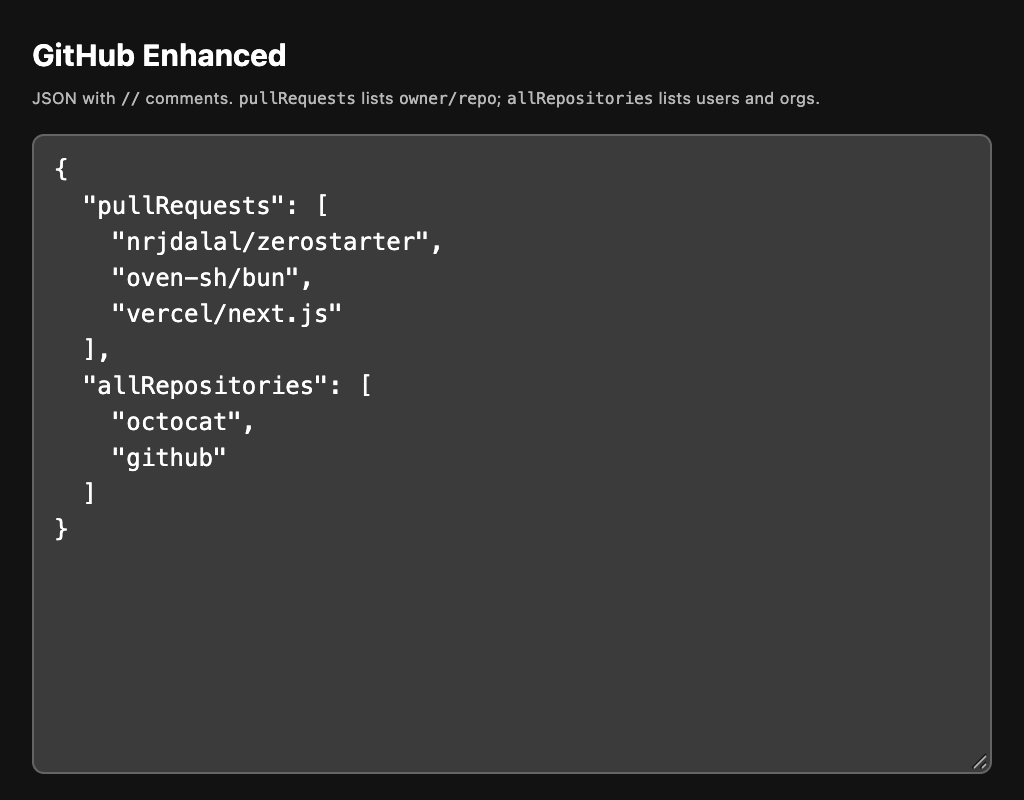
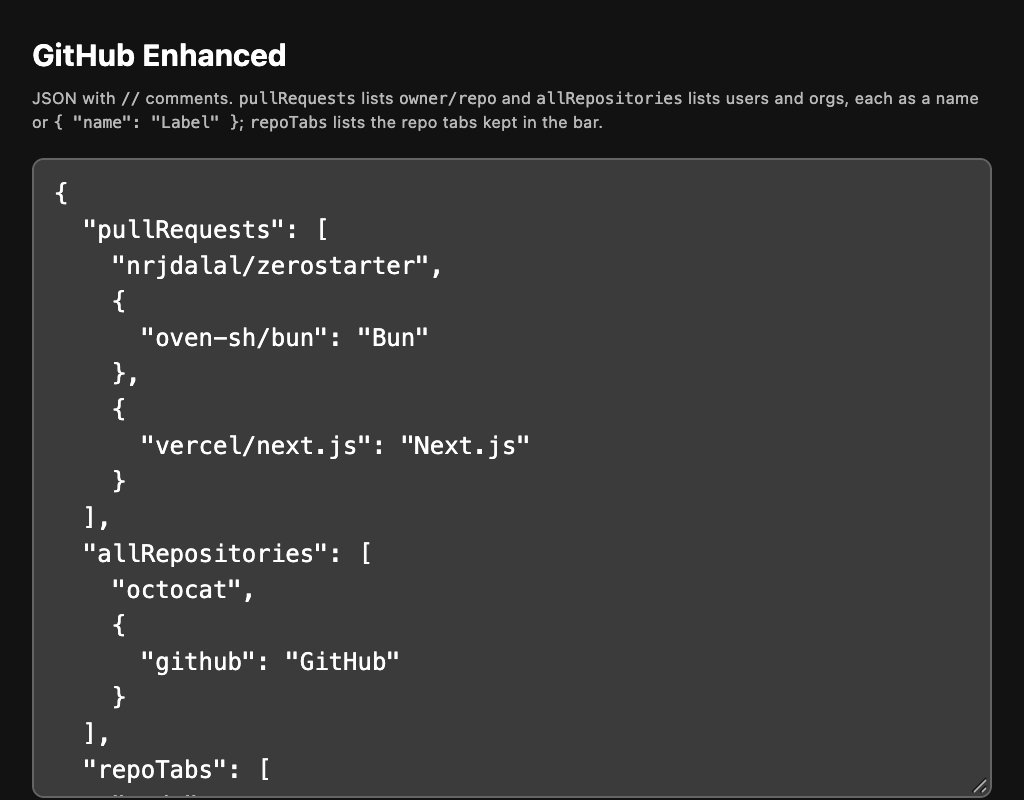
feat: fold a changed file by clicking its header bar; repo tabs come only from repoTabs; entries may carry a label; the tab tooltip takes the pointer

diff --git a/github.js b/github.js
@@ -1,4 +1,4 @@
-// Puts Home and Feed side by side, links the account avatar to its profile and adds Pull Requests (each repo set in the extension popup, linking to its pull requests) and All Repositories (each user or org set there, linking to its repositories, an org found by whether its /orgs page exists) above the dashboard's "Top repositories", in static markup with avatars kept in localStorage, so they render at first paint, swaps a repo's "All pull requests" heading for Pull requests, Authored by me and Merged by me icon tabs, adding Merged by me to its sidebar too, opens a repo's pull request lists sorted by last update unless the search names a sort, and on a pull request hides each sidebar box's "None yet" style line, keeping its title, and fills Squash and merge's commit title with the pull request's title and number.
+// Keeps a repo's tabs listed in repoTabs in the bar, in that order, moving the rest under More; puts Home and Feed side by side, links the account avatar to its profile and adds Pull Requests (each repo set in the extension popup, linking to its pull requests) and All Repositories (each user or org set there, linking to its repositories, an org found by whether its /orgs page exists) above the dashboard's "Top repositories", in static markup with avatars kept in localStorage, so they render at first paint, swaps a repo's "All pull requests" heading for Pull requests, Authored by me and Merged by me icon tabs, adding Merged by me to its sidebar too, opens a repo's pull request lists sorted by last update unless the search names a sort, and on a pull request hides each sidebar box's "None yet" style line, keeping its title, fills Squash and merge's commit title with the pull request's title and number, and folds or opens a changed file when its header bar is clicked anywhere but a button or link.
 ;(() => {
   const sortedUrl = (href) => {
     const url = new URL(href, location.href)
@@ -24,6 +24,13 @@
     },
     true,
   )
+  document.addEventListener("click", (event) => {
+    const path = event.composedPath().filter((node) => node instanceof Element)
+    const header = path.find((node) => node.matches("[class*='diff-file-header']"))
+    if (!header || event.button !== 0 || path.some((node) => node.matches("a, button, input, label, select, summary, textarea, [role='button'], [role='checkbox']")) || getSelection().toString()) return
+    const label = (button) => (button.getAttribute("aria-label") ?? document.getElementById(button.getAttribute("aria-labelledby"))?.textContent ?? "").trim()
+    ;[...header.querySelectorAll("button")].find((button) => /^(Collapse|Expand) file$/.test(label(button)))?.click()
+  })
   const ICONS = {
     "git-merge": '<path d="M5.45 5.154A4.25 4.25 0 0 0 9.25 7.5h1.378a2.251 2.251 0 1 1 0 1.5H9.25A5.734 5.734 0 0 1 5 7.123v3.505a2.25 2.25 0 1 1-1.5 0V5.372a2.25 2.25 0 1 1 1.95-.218ZM4.25 13.5a.75.75 0 1 0 0-1.5.75.75 0 0 0 0 1.5Zm8.5-4.5a.75.75 0 1 0 0-1.5.75.75 0 0 0 0 1.5ZM5 3.25a.75.75 0 1 0 0 .005V3.25Z"/>',
     inbox: '<path d="M2.8 2.06A1.75 1.75 0 0 1 4.41 1h7.18c.7 0 1.333.417 1.61 1.06l2.74 6.395c.04.093.06.194.06.295v4.5A1.75 1.75 0 0 1 14.25 15H1.75A1.75 1.75 0 0 1 0 13.25v-4.5c0-.101.02-.202.06-.295Zm1.61.44a.25.25 0 0 0-.23.152L1.887 8H4.75a.75.75 0 0 1 .6.3L6.625 10h2.75l1.275-1.7a.75.75 0 0 1 .6-.3h2.863L11.82 2.652a.25.25 0 0 0-.23-.152Zm10.09 7h-2.875l-1.275 1.7a.75.75 0 0 1-.6.3h-3.5a.75.75 0 0 1-.6-.3L4.375 9.5H1.5v3.75c0 .138.112.25.25.25h12.5a.25.25 0 0 0 .25-.25Z"/>',
@@ -32,6 +39,7 @@
   const AVATARS = "ujc-avatars"
   const avatarUrl = (owner) => `https://github.com/${owner}.png?size=32`
   const avatars = JSON.parse(localStorage.getItem(AVATARS) ?? "{}")
+  const entries = (list) => (list ?? []).flatMap((item) => (typeof item === "string" ? [[item]] : Object.entries(item ?? {})))
   const ORGS = "ujc-orgs"
   const orgs = JSON.parse(localStorage.getItem(ORGS) ?? "{}")
   const avatar = (owner) => {
@@ -42,13 +50,29 @@
   }
   const CONFIG = "github-enhanced-config"
   let config = JSON.parse(localStorage.getItem(CONFIG) ?? "{}")
+  const repoTabs = () => {
+    document.getElementById("ujc-repo-tabs")?.remove()
+    const tabs = config.repoTabs ?? []
+    if (!tabs.length) return
+    const nav = 'nav[aria-label="Repository"]'
+    const style = document.createElement("style")
+    style.id = "ujc-repo-tabs"
+    style.textContent = [
+      `${nav}[data-overflow-mode="wrap"] { --UnderlineNav_moreButton-display: flex; }`,
+      `${nav} > ul > li:has(> a[data-tab-item]) { order: ${tabs.length + 2}; }`,
+      ...tabs.map((tab, i) => `${nav} > ul > li:has(> a[data-tab-item="${CSS.escape(tab)}"]) { order: ${i + 1}; }`),
+      `${nav} > ul::after { content: ""; order: ${tabs.length + 1}; flex-basis: 100%; }`,
+    ].join("\n")
+    document.documentElement.append(style)
+  }
+  repoTabs()
   const hydrated = (el) => Object.keys(el).some((key) => key.startsWith("__reactFiber$"))
 
   const sections = () => {
     for (const partial of document.querySelectorAll("react-partial[partial-name='dashboard-repositories']")) {
       if (partial.previousElementSibling?.hasAttribute("data-ujc-sections")) continue
-      const pulls = (config.pullRequests ?? []).map((repo) => [`/${repo}/pulls`, repo.split("/")[1], repo.split("/")[0]])
-      const all = (config.allRepositories ?? []).map((owner) => [orgs[owner] ? `/orgs/${owner}/repositories` : `/${owner}?tab=repositories`, owner, owner])
+      const pulls = entries(config.pullRequests).map(([repo, label]) => [`/${repo}/pulls`, label ?? repo.split("/")[1], repo.split("/")[0]])
+      const all = entries(config.allRepositories).map(([owner, label]) => [orgs[owner] ? `/orgs/${owner}/repositories` : `/${owner}?tab=repositories`, label ?? owner, owner])
       for (const [title, rows] of [["Pull Requests", pulls], ["All Repositories", all]]) {
         if (!rows.length) continue
         const box = document.createElement("div")
@@ -267,13 +291,13 @@
 
   const cacheAvatars = async () => {
     const next = {}
-    const owners = [...(config.pullRequests ?? []).map((repo) => repo.split("/")[0]), ...(config.allRepositories ?? [])]
+    const owners = [...entries(config.pullRequests).map(([repo]) => repo.split("/")[0]), ...entries(config.allRepositories).map(([owner]) => owner)]
     for (const owner of new Set(owners.filter(Boolean))) {
       const url = (await toDataUrl(avatarUrl(owner))) ?? avatars[owner]
       if (url) next[owner] = url
     }
     localStorage.setItem(AVATARS, JSON.stringify(next))
-    const unknown = (config.allRepositories ?? []).filter((owner) => !(owner in orgs))
+    const unknown = entries(config.allRepositories).map(([owner]) => owner).filter((owner) => !(owner in orgs))
     for (const owner of unknown) {
       const org = await fetch(`/orgs/${owner}/repositories`, { method: "HEAD" }).then((res) => res.ok, () => undefined)
       if (org !== undefined) orgs[owner] = org
@@ -287,6 +311,7 @@
   if (location.pathname === "/") addEventListener("load", () => requestIdleCallback(cacheAvatars))
   document.addEventListener("github-enhanced:config", () => {
     config = JSON.parse(localStorage.getItem(CONFIG) ?? "{}")
+    repoTabs()
     for (const node of document.querySelectorAll("[data-ujc-sections]")) node.remove()
     schedule()
   })

diff --git a/github.css b/github.css
@@ -110,36 +110,6 @@ header a[href="/"] > svg.octicon-mark-github > path {
   display: none;
 }
 
-nav[aria-label="Repository"][data-overflow-mode="wrap"] {
-  --UnderlineNav_moreButton-display: flex;
-}
-
-nav[aria-label="Repository"] > ul > li:has(> a[data-tab-item]) {
-  order: 6;
-}
-
-nav[aria-label="Repository"] > ul > li:has(> a[data-tab-item="code"]) {
-  order: 1;
-}
-
-nav[aria-label="Repository"] > ul > li:has(> a[data-tab-item="actions"]) {
-  order: 2;
-}
-
-nav[aria-label="Repository"] > ul > li:has(> a[data-tab-item="issues"]) {
-  order: 3;
-}
-
-nav[aria-label="Repository"] > ul > li:has(> a[data-tab-item="pull-requests"]) {
-  order: 4;
-}
-
-nav[aria-label="Repository"] > ul::after {
-  content: "";
-  order: 5;
-  flex-basis: 100%;
-}
-
 nav[data-ujc-pr-tabs] {
   display: flex;
   gap: 8px;
@@ -195,7 +165,6 @@ nav[data-ujc-pr-tabs] > a::after {
   background: var(--tooltip-bgColor);
   color: var(--tooltip-fgColor);
   font: var(--text-body-shorthand-small);
-  pointer-events: none;
   animation: ujc-tooltip 0.1s ease-in;
 }
 

diff --git a/settings.html b/settings.html
@@ -48,7 +48,7 @@
   </head>
   <body>
     <h1>GitHub Enhanced</h1>
-    <small>JSON with <code>//</code> comments. <code>pullRequests</code> lists <code>owner/repo</code>; <code>allRepositories</code> lists users and orgs.</small>
+    <small>JSON with <code>//</code> comments. <code>pullRequests</code> lists <code>owner/repo</code> and <code>allRepositories</code> lists users and orgs, each as a name or <code>{ "name": "Label" }</code>; <code>repoTabs</code> lists the repo tabs kept in the bar.</small>
     <textarea id="config" spellcheck="false" aria-label="Config (JSON)"></textarea>
     <button id="save">Save</button><output id="status"></output>
     <script src="settings.js"></script>

diff --git a/settings.js b/settings.js
@@ -2,12 +2,18 @@ const field = document.getElementById("config")
 const status = document.getElementById("status")
 const TEMPLATE = `{
   "pullRequests": [
-    // "owner/repo",
-    // "nrjdalal/zerostarter"
+    // "owner/repo", or { "owner/repo": "Label" } to name it
+    // "nrjdalal/zerostarter",
+    // { "vercel/next.js": "Next" }
   ],
   "allRepositories": [
-    // "user or org",
-    // "octocat"
+    // "user or org", or { "user or org": "Label" } to name it
+    // "octocat",
+    // { "github": "GitHub" }
+  ],
+  "repoTabs": [
+    // tabs kept in a repo's bar, in order; the rest move under More
+    // "code", "issues", "pull-requests", "actions"
   ]
 }`
 

diff --git a/README.md b/README.md
@@ -18,7 +18,7 @@ The GitHub mark becomes a home button styled like the menu button.
 
 ### Repo tabs
 
-Code, Actions, Issues and Pull requests stay in the bar; the rest move under More at every width.
+Off until you list tabs in `repoTabs`. The tabs you list stay in the bar, in your order; the rest move under More at every width. Here `repoTabs` is `["code", "actions", "issues", "pull-requests"]`.
 
 ![Repo tab bar with Code, Actions, Issues and Pull requests, and More on the right](assets/repo-tabs.png)
 
@@ -40,6 +40,12 @@ Squash and merge fills its commit title with the pull request's title and number
 
 <img src="assets/squash-title.png" alt="Squash and merge form with the commit message set to the pull request title and number" width="560">
 
+### Fold a file from its header
+
+On a pull request's Files changed tab, a click on any empty part of a file's header bar folds or opens that file, as the arrow at its left does. Buttons and links in the bar, the file name included, work as before.
+
+<img src="assets/fold-file.png" alt="Files changed with the first file folded to its header bar and the second file open" width="680">
+
 ## Install
 
 1. Clone or download this repo.
@@ -52,17 +58,19 @@ It works in Chrome and other Chromium browsers, such as Helium, Arc, Brave and E
 
 Click the extension's toolbar button, or its **Options**, to edit its config, one JSON object; `//` comments are allowed and kept. An empty config starts with commented-out examples. Open github.com tabs update as soon as you save.
 
-<img src="assets/settings.png" alt="Settings with the config as JSON: pullRequests and allRepositories" width="512">
+<img src="assets/settings.png" alt="Settings with the config as JSON: pullRequests, allRepositories and repoTabs" width="512">
 
 ```json
 {
-  "pullRequests": ["nrjdalal/zerostarter"],
-  "allRepositories": ["octocat"]
+  "pullRequests": ["nrjdalal/zerostarter", { "vercel/next.js": "Next.js" }],
+  "allRepositories": ["octocat", { "github": "GitHub" }],
+  "repoTabs": ["code", "actions", "issues", "pull-requests"]
 }
 ```
 
-- `pullRequests` lists `owner/repo`, in order; each shows as the repo's name and links to its pull requests.
-- `allRepositories` lists users and orgs, in order; each links to its repositories. Whether a name is an org is learned once, from whether its `github.com/orgs/<name>` page exists, and kept in github.com's localStorage.
+- `pullRequests` lists `owner/repo`, in order; each links to the repo's pull requests and shows as the repo's name, or as the label you give it with `{ "owner/repo": "Label" }`.
+- `allRepositories` lists users and orgs, in order; each links to its repositories and shows as its name, or as the label you give it with `{ "name": "Label" }`. Whether a name is an org is learned once, from whether its `github.com/orgs/<name>` page exists, and kept in github.com's localStorage.
+- `repoTabs` lists the repo tabs kept in the bar, in order, by their ids: `code`, `issues`, `pull-requests`, `agents`, `discussions`, `actions`, `projects`, `wiki`, `security-and-quality`, `insights`, `settings`. Leave it out to keep GitHub's own tab bar.
 
 The config syncs through your browser profile. Avatars are kept in github.com's localStorage and refreshed after each dashboard load, so from the second visit on they paint with the page.
 
